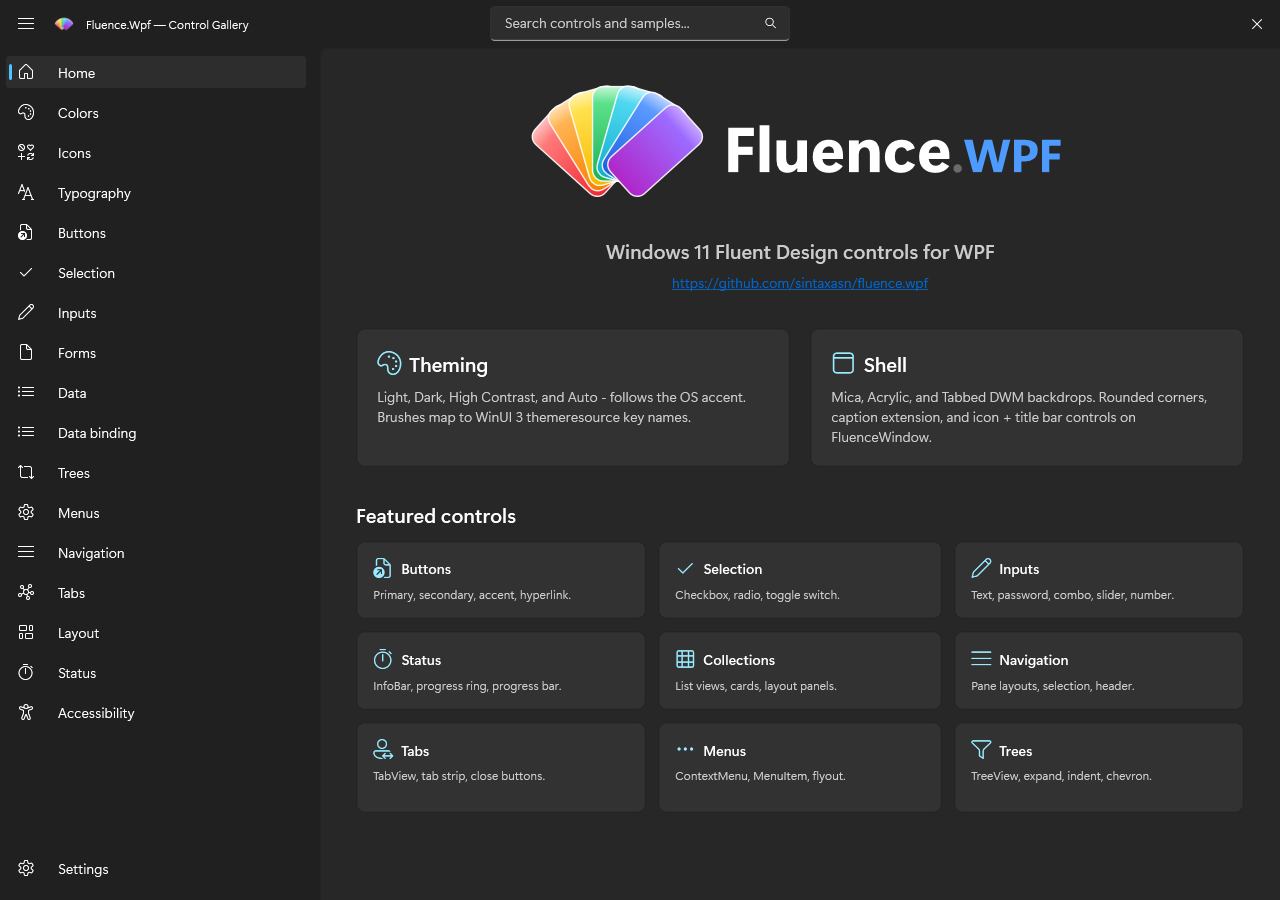
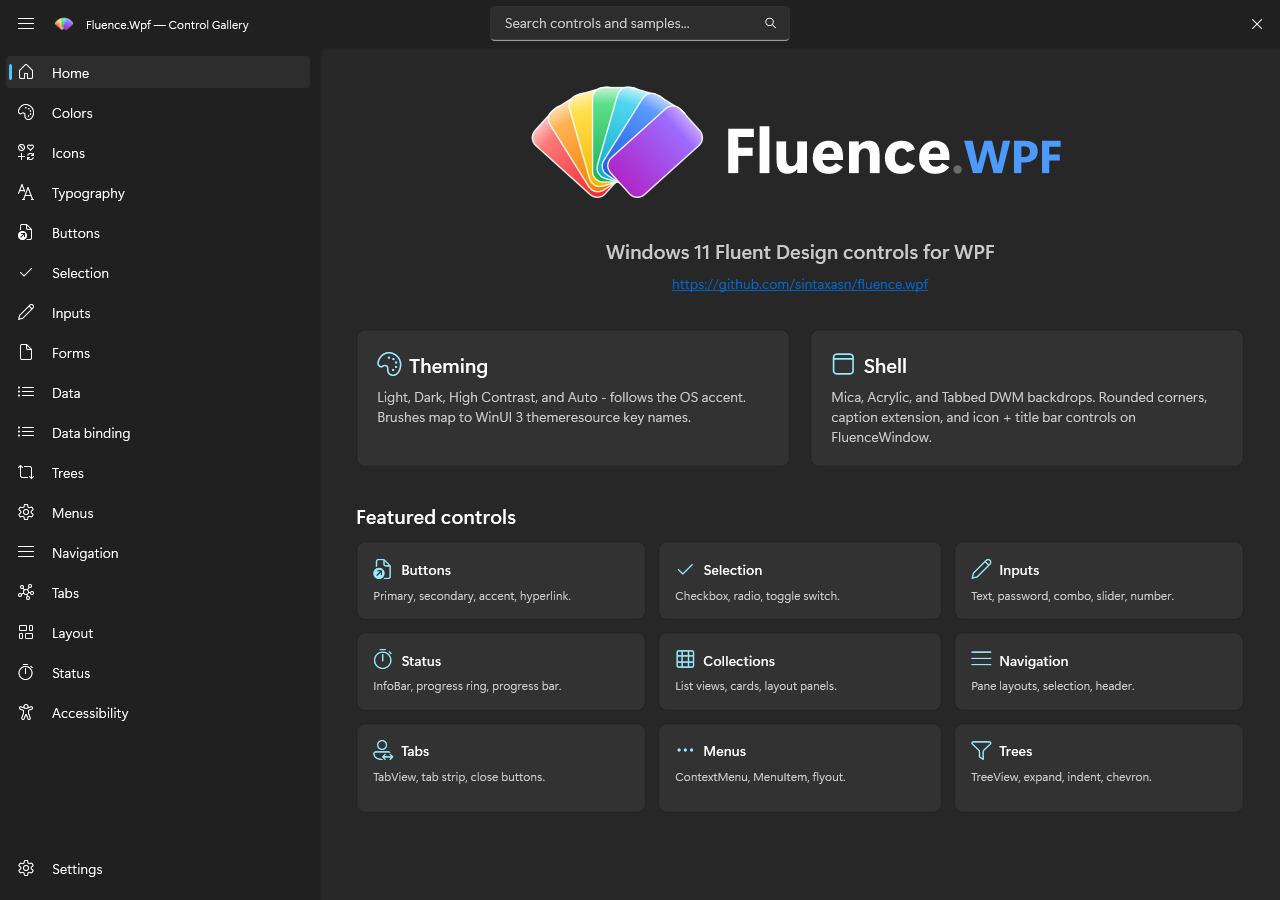
Make the demo source body translucent and carry over the main working-copy edits.
DemoSampleControl: the expanded source body follows the WinUI Gallery content
tier. The content border paints the expander's CardBackgroundFillColorSecondary
Background and the code viewer is transparent, so the code sits directly on the
translucent layer. The opaque SystemFillColorSolidAttentionBackground plate had
matched the Gallery's composite value (46 Dark) but not its opacity.

Carried over from the uncommitted edits in the main checkout: NavigationView
Left items drop the 4 dp right margin and narrow the icon-to-text gap from 12 to
6 dp; the ListView selection indicator sits 4 dp from the item edge; the Icons
page catalog card paints CardBackgroundFillColorTertiary. main has no commits
this branch lacks; its DemoSampleControl brush edit is superseded by f56b86b.

Tests updated for the new roles; screenshots regenerated.

diff --git a/Fluence.Wpf/Themes/Controls/NavigationView.xaml b/Fluence.Wpf/Themes/Controls/NavigationView.xaml
@@ -136,14 +136,14 @@
                     </ControlTemplate.Resources>
                     <Border
                         x:Name="OuterBorder"
-                        Margin="4,2,4,2"
+                        Margin="4,2,0,2"
                         Background="{TemplateBinding Background}"
                         BorderThickness="2"
                         CornerRadius="{DynamicResource ControlCornerRadius}">
                         <Grid MinHeight="32">
                             <Grid.ColumnDefinitions>
                                 <ColumnDefinition x:Name="IconColumn" Width="40" />
-                                <ColumnDefinition x:Name="GapColumn" Width="12" />
+                                <ColumnDefinition x:Name="GapColumn" Width="6" />
                                 <ColumnDefinition x:Name="ContentColumn" Width="*" />
                                 <ColumnDefinition x:Name="InfoBadgeColumn" Width="Auto" />
                             </Grid.ColumnDefinitions>

diff --git a/Fluence.Wpf.Demo/Pages/DemoSampleControl.xaml b/Fluence.Wpf.Demo/Pages/DemoSampleControl.xaml
@@ -152,7 +152,7 @@
                                     CornerRadius="0,0,8,8">
                                     <Border
                                         x:Name="SourceContentBorder"
-                                        Background="{DynamicResource SystemFillColorSolidAttentionBackgroundBrush}"
+                                        Background="{TemplateBinding Background}"
                                         CornerRadius="0,0,8,8">
                                         <ContentPresenter
                                             x:Name="ExpandSite"

diff --git a/Fluence.Wpf/Themes/Controls/ListView.xaml b/Fluence.Wpf/Themes/Controls/ListView.xaml
@@ -71,7 +71,7 @@
                                 x:Name="SelectionIndicator"
                                 Width="3"
                                 Height="16"
-                                Margin="2,0,0,0"
+                                Margin="4,0,0,0"
                                 HorizontalAlignment="Left"
                                 VerticalAlignment="Center"
                                 Background="{DynamicResource NavigationViewSelectionIndicatorBrush}"

diff --git a/Fluence.Wpf.Demo/Pages/GalleryIconsPage.xaml b/Fluence.Wpf.Demo/Pages/GalleryIconsPage.xaml
@@ -124,7 +124,7 @@
             <Border
                 x:Name="IconCatalogCard"
                 Grid.Row="3"
-                Background="{DynamicResource SolidBackgroundFillColorBaseBrush}"
+                Background="{DynamicResource CardBackgroundFillColorTertiaryBrush}"
                 BorderBrush="{DynamicResource CardStrokeColorDefaultBrush}"
                 BorderThickness="1"
                 CornerRadius="8">

diff --git a/Fluence.Wpf.Tests/ControlTests.BackgroundParity.cs b/Fluence.Wpf.Tests/ControlTests.BackgroundParity.cs
@@ -249,7 +249,9 @@ namespace Fluence.Wpf.Tests
 
                     RichTextBox sourceViewer = Assert.IsType<RichTextBox>(FindVisualChildByName<RichTextBox>(sourceExpander, "SourceTextViewer"), exactMatch: false);
                     Border copyButtonHost = Assert.IsType<Border>(FindVisualChildByName<Border>(sourceExpander, "CopySourceButtonHost"), exactMatch: false);
-                    AssertBrushColor(sourceViewer.Background, "SystemFillColorSolidAttentionBackgroundBrush");
+                    Border sourceContentBorder = Assert.IsType<Border>(FindVisualChildByName<Border>(sourceExpander, "SourceContentBorder"), exactMatch: false);
+                    AssertBrushColor(sourceContentBorder.Background, "CardBackgroundFillColorSecondaryBrush");
+                    AssertBrushColor(sourceViewer.Background, "SubtleFillColorTransparentBrush");
                     AssertBrushColor(copyButtonHost.Background, "CardBackgroundFillColorDefaultBrush");
                 }
                 finally

diff --git a/Fluence.Wpf.Demo/Pages/DemoSampleControl.xaml.cs b/Fluence.Wpf.Demo/Pages/DemoSampleControl.xaml.cs
@@ -496,7 +496,8 @@ namespace Fluence.Wpf.Demo.Pages
                 Padding = new Thickness(0),
                 VerticalScrollBarVisibility = ScrollBarVisibility.Auto,
             };
-            viewer.SetResourceReference(BackgroundProperty, "SystemFillColorSolidAttentionBackgroundBrush");
+            // WinUI Gallery: code sits directly on the Expander content tier (CardBackgroundFillColorSecondary), no opaque plate.
+            viewer.SetResourceReference(BackgroundProperty, "SubtleFillColorTransparentBrush");
             viewer.SetResourceReference(ForegroundProperty, "TextFillColorPrimaryBrush");
             viewer.SetResourceReference(FontFamilyProperty, "DemoMonospaceFontFamily");
             viewer.Document = CreateSourceDocument(source, language);

diff --git a/Fluence.Wpf.Tests/DemoMainWindowTests.cs b/Fluence.Wpf.Tests/DemoMainWindowTests.cs
@@ -1865,7 +1865,7 @@ namespace Fluence.Wpf.Tests
                     Assert.Equal(new Thickness(0), catalogCard.Padding);
                     Assert.Equal(new CornerRadius(8), catalogCard.CornerRadius);
                     Assert.Equal(new Thickness(1), catalogCard.BorderThickness);
-                    AssertIconBrush(catalogCard.Background, "SolidBackgroundFillColorBaseBrush");
+                    AssertIconBrush(catalogCard.Background, "CardBackgroundFillColorTertiaryBrush");
                     AssertIconBrush(catalogCard.BorderBrush, "CardStrokeColorDefaultBrush");
                     Assert.Equal(new Thickness(0), list.BorderThickness);
 

diff --git a/CHANGELOG.md b/CHANGELOG.md
@@ -32,7 +32,8 @@ The format is based on [Keep a Changelog](https://keepachangelog.com/en/1.1.0/),
 
 ### Changed
 
-- Demo: `DemoSampleControl` surfaces are measured against the installed WinUI 3 Gallery (2.9.3, Button page, 150% DPI) rather than read from its source alone. The sample card keeps `SolidBackgroundFillColorBaseBrush` (the Gallery `ControlExampleDisplayBrush`, 243 Light / 32 Dark on screen in both apps); the options rail moves from `CardBackgroundFillColorSecondaryBrush` to `CardBackgroundFillColorDefaultBrush` with a `DividerStrokeColorDefaultBrush` divider (Gallery 43 Dark, Fluence was 39); and the source expander header is one `CardBackgroundFillColorDefaultBrush` layer over the page (Gallery 54 Dark) instead of `ControlFillColorDefaultBrush` composited over the expander's own `CardBackgroundFillColorSecondaryBrush` root fill (62). Demo only; no library change.
+- Demo: `DemoSampleControl` surfaces are measured against the installed WinUI 3 Gallery (2.9.3, Button page, 150% DPI) rather than read from its source alone. The sample card keeps `SolidBackgroundFillColorBaseBrush` (the Gallery `ControlExampleDisplayBrush`, 243 Light / 32 Dark on screen in both apps); the options rail moves from `CardBackgroundFillColorSecondaryBrush` to `CardBackgroundFillColorDefaultBrush` with a `DividerStrokeColorDefaultBrush` divider (Gallery 43 Dark, Fluence was 39); and the source expander header is one `CardBackgroundFillColorDefaultBrush` layer over the page (Gallery 54 Dark) instead of `ControlFillColorDefaultBrush` composited over the expander's own `CardBackgroundFillColorSecondaryBrush` root fill (62). The expanded source body follows the Gallery's translucent content tier: the expander's `CardBackgroundFillColorSecondaryBrush` is painted by the content border and the code viewer is transparent, replacing the opaque `SystemFillColorSolidAttentionBackgroundBrush` plate that had matched the Gallery's composite value (46 Dark) but not its opacity. Demo only; no library change.
+- `NavigationView` Left-mode items drop the 4 dp right margin on the item chrome and narrow the icon-to-text gap from 12 to 6 dp; `ListView` selection indicator sits at 4 dp from the item edge instead of 2; the demo Icons page catalog card paints `CardBackgroundFillColorTertiaryBrush` instead of the opaque `SolidBackgroundFillColorBaseBrush`. These are the working-copy edits carried over from the `main` checkout.
 - `FluenceWindow`'s outer border goes back to DWM on Windows 11. WinUI draws no template border at all on a top-level surface, and on Windows 11 DWM already draws and colors the 1 px outer border itself, so a WPF template border stacked on top of it painted a second, uncolored edge; wpfui's `ClientAreaBorder.cs` and iNKORE's `WindowHelper.ShouldDisplayManualBorder` corroborate the same split, both drawing 0 dp on Windows 11 and 1 dp only on Windows 10. Measured this session on a Windows 11 host at 150% DPI in Light, from a screen capture of the window's left edge (Dark and High Contrast were not captured): before the change, the active window showed 3 physical px of accent (DWM's 2 px colored border plus the template's own stroke), and the inactive window showed DWM's grey border followed by a 1 px pale `#EBEBEB` line before the content; after the change, both states show DWM's border running straight into the content with no extra pixel. `WindowPolicy.BuildFramePlan` now derives `FramePlan.TemplateBorderThickness` from `WindowCapabilities.SupportsBorderColor`: 0 dp where DWM can be colored, 1 dp where it cannot, and the implicit style's design-time default (and the value shown before the first `ApplyFrame` pass) moves from 2 to 1 to match the Windows 10 value. The maximized 0 dp trigger in `Themes/Controls/FluenceWindow.xaml` is unchanged. `ApplyFrame` ran on every activation, deactivation, and state change and always overwrote whatever value was already on `BorderBrush`, so the style's own `SurfaceStrokeColorDefaultBrush` setter was dead on any window that had ever been shown; the inactive template border brush key now resolves to that same `SurfaceStrokeColorDefaultBrush` key instead of `CardStrokeColorDefaultSolidBrush`, matching WinUI's use of that token for a top-level surface edge and bringing the style's own setter and the code path into agreement. `FluenceWindow.ApplyFrame` now writes `BorderBrush` and `BorderThickness` through `SetCurrentValue` instead of a plain assignment, so the declarative base value survives underneath and a consumer's own style setter or binding is overridden only while the shell manages the realised window. The Windows 10 1 dp `SurfaceStrokeColorDefaultBrush` edge is translucent and composites over the HWND redirection surface rather than painting an opaque grey; this is a deliberate tradeoff to keep reusing the canonical stroke token instead of adding a second, opaque, theme-aware fallback colour just for this edge. The template root also stops rounding itself. It carried `OverlayCornerRadius` (8 DIP) although DWM already masks the window at its own radius, and WinUI paints no rounded root of its own. Measured at 150% DPI with the default rounding, the corner pixels are byte-identical with and without the template radius (DWM scales its radius with DPI, so the two arcs coincided), so the change is parity, not a visible fix there; it does remove the rounded outline the template drew on a square window on Windows 10 and under `CornerPreference.DoNotRound`. DWM now owns the corners as well as the edge, and the maximized trigger only zeroes the Windows 10 border thickness.
 - Dead frame and backdrop plumbing is removed. `FramePlan.TemplateBorderThickness` and `BackdropPlan.UseTransparentBackground` were computed on every plan and read by nothing at the time; `FluenceWindow.ApplyFrame` used only the brush key and DWM colour, and `ApplyBackdrop` used `BackgroundColor`. (`TemplateBorderThickness` gained a real consumer again in the border fix above, which reintroduced it once `ApplyFrame` needed a template thickness to write; the two changes do not conflict.) `WindowPolicy.BuildFramePlan` drops its `WindowState` parameter with them, since the maximized 0 dp border comes from the template trigger in `Themes/Controls/FluenceWindow.xaml`. `NativeMethods.ExtendFrameIntoClientArea` and its `DwmExtendFrameIntoClientArea` CsWin32 request had no callers and are gone; `WindowChrome.GlassFrameThickness = -1` is what extends the frame. Tests asserting `UseTransparentBackground` now assert `BackgroundColor` directly, and `BuildFramePlan_Maximized_TemplateBorderIsZero`, which asserted only the removed property, is deleted. `KNOWN_ISSUES.md` gains the measurement behind the `NavigationView` content canvas reading darker than the pane over Mica on a 10 bits per channel display; the library keeps the canonical WinUI tokens.
 

diff --git a/.claude/skills/demo-sample-page/SPEC.md b/.claude/skills/demo-sample-page/SPEC.md
@@ -30,7 +30,7 @@ Demo sample surfaces use the native Fluence brush resources and control defaults
 | Sample card surface       | `SolidBackgroundFillColorBaseBrush` (WinUI Gallery `ControlExampleDisplayBrush`; opaque, so samples composite at token brightness) |
 | Right rail / options pane | `CardBackgroundFillColorDefaultBrush` with a `DividerStrokeColorDefaultBrush` left divider (Gallery `OptionsPresenter`) |
 | Expander header           | `CardBackgroundFillColorDefaultBrush`, one layer over the page (WinUI `ExpanderHeaderBackground`); the root paints no fill under it |
-| Expander expanded content | `CardBackgroundFillColorSecondaryBrush` as the Expander `Background`; the code viewer inside sits on the opaque `SystemFillColorSolidAttentionBackgroundBrush` plate |
+| Expander expanded content | `CardBackgroundFillColorSecondaryBrush` as the Expander `Background`, painted by the content tier (WinUI `ExpanderContent`); the code viewer is transparent so the code sits directly on that translucent layer, as in the Gallery |
 | Secondary labels          | `TextFillColorSecondaryBrush`                                                                                 |
 
 The page background has no dedicated brush (it uses the host control defaults), so the other five rows are the surface-token brushes that the Definition of done checks resolve across themes. The roles were measured against the installed WinUI 3 Gallery (2.9.3) on the Button page: plate 243 Light / 32 Dark, options rail 251 / 43, header 54 Dark over a 43 page, all reproduced by the brushes above.
